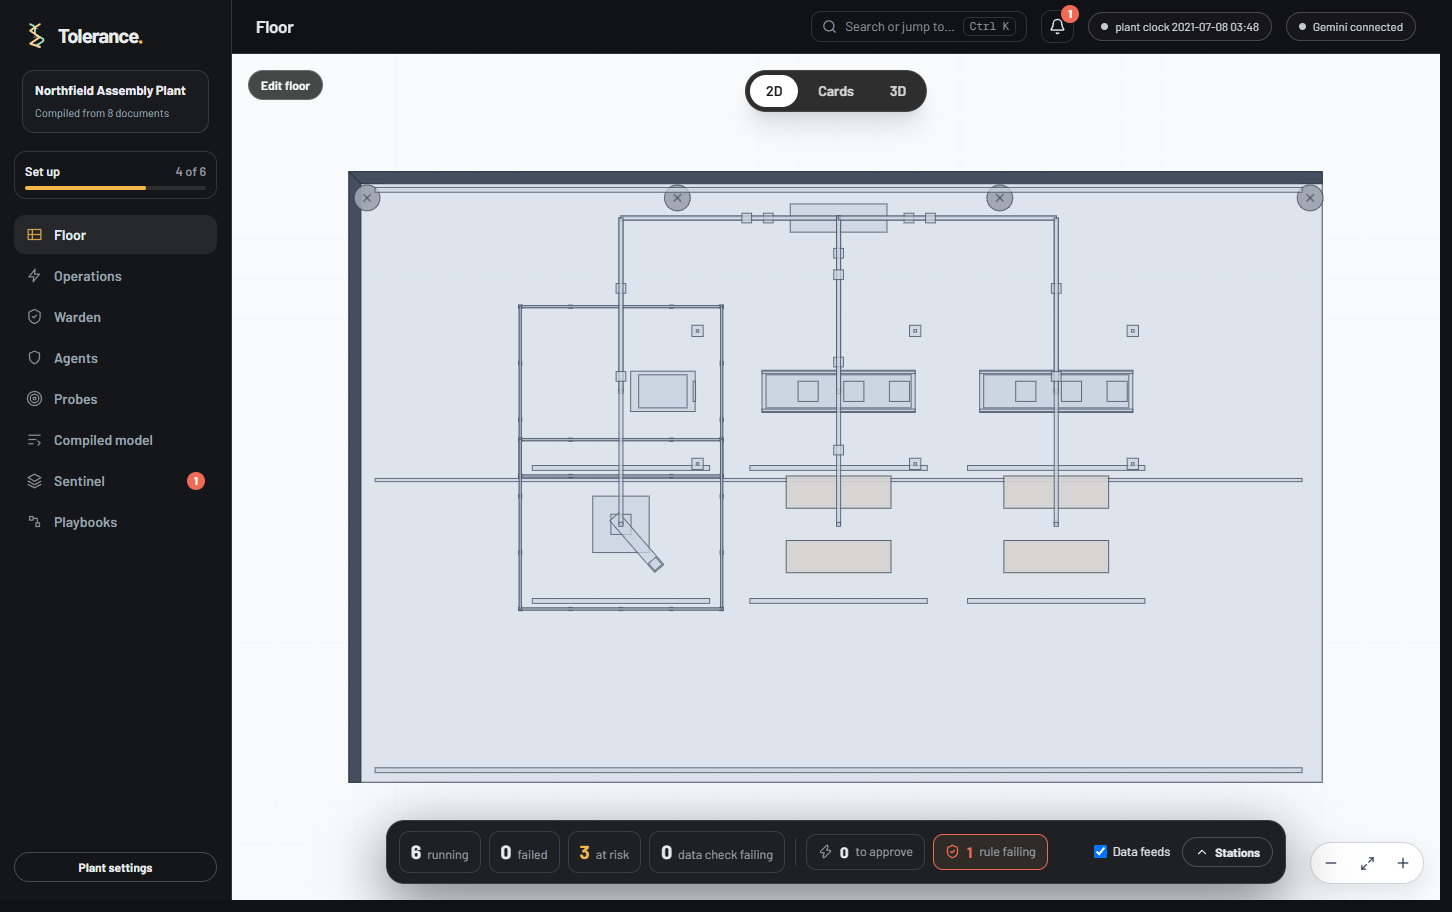
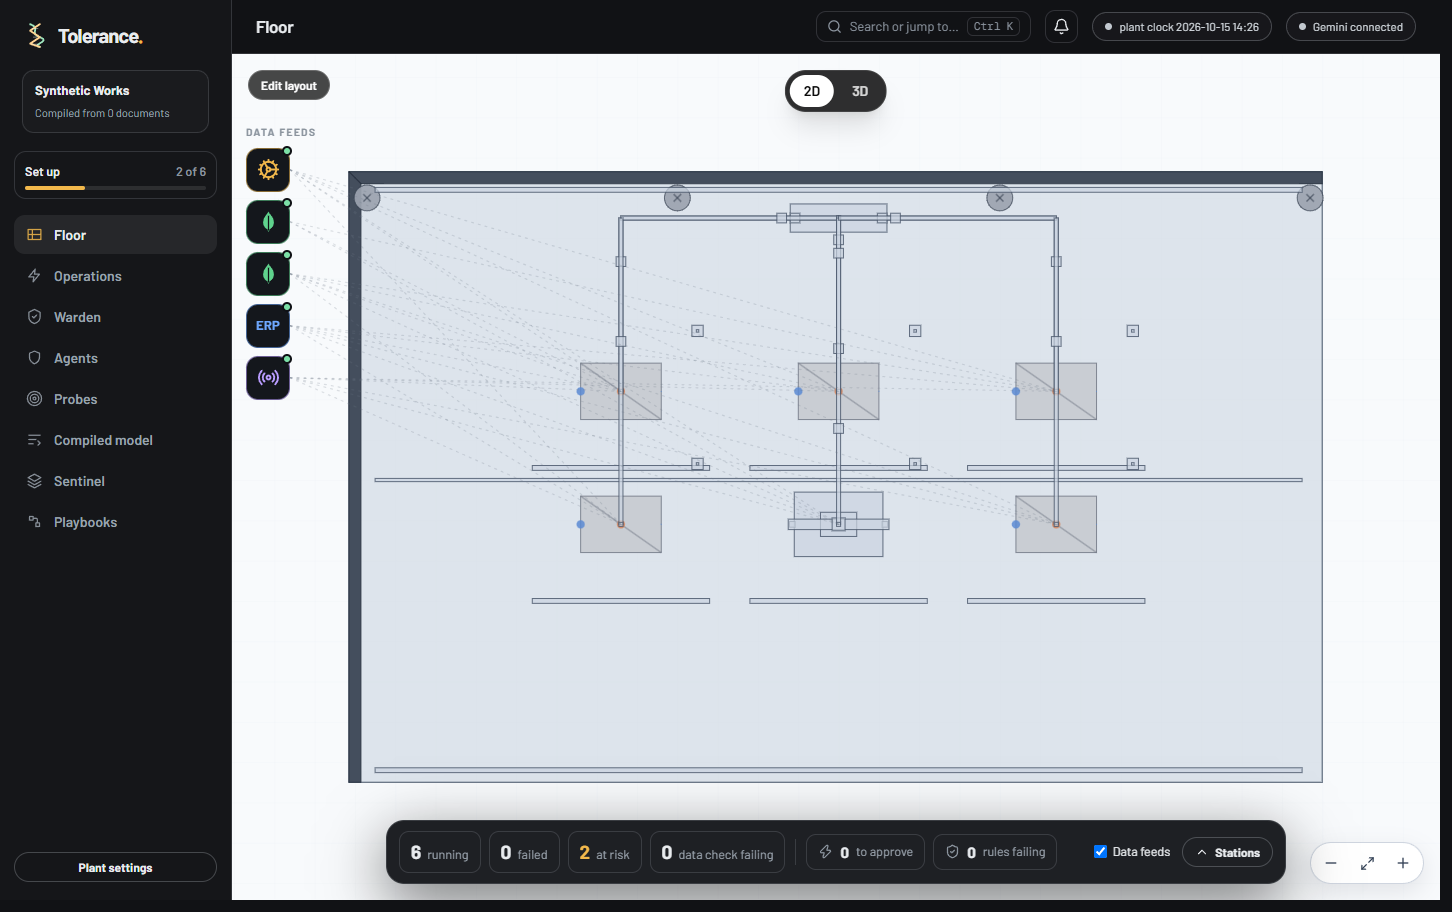
Landing hero: show the live floor under the headline, and a current screenshot

diff --git a/web/app/page.tsx b/web/app/page.tsx
@@ -13,7 +13,7 @@ const CSS = `
 .lp-nav nav{display:flex;gap:22px;margin-left:12px;font-size:14.5px;color:var(--mut)}
 .lp-nav nav a{text-decoration:none}.lp-nav nav a:hover{color:var(--ivory)}
 .lp-hero{background:radial-gradient(1000px 520px at 78% -10%,#23201a 0%,transparent 60%),radial-gradient(900px 500px at 10% 0%,#162320 0%,transparent 55%)}
-.lp-hero .lp-wrap{display:grid;grid-template-columns:minmax(0,1.15fr) minmax(0,.85fr);gap:56px;align-items:center;padding-top:72px;padding-bottom:72px}
+.lp-hero .lp-wrap{display:grid;grid-template-columns:minmax(0,1.15fr) minmax(0,.85fr);gap:56px;align-items:start;padding-top:56px;padding-bottom:64px}
 .lp-eyebrow{font-size:12px;letter-spacing:.16em;text-transform:uppercase;color:var(--amber);font-weight:700}
 .lp h1{font-size:clamp(38px,5vw,60px);line-height:1.04;letter-spacing:-.045em;font-weight:600;margin:14px 0 18px}
 .lp h2{font-size:clamp(28px,3.4vw,40px);line-height:1.1;letter-spacing:-.04em;font-weight:600;margin:0 0 14px}
@@ -88,6 +88,8 @@ export default function Landing() {
               <li><i>✓</i><span>A hard limit from your own documents is never crossed, whatever the score.</span></li>
               <li><i>✓</i><span>Plain rules check your systems. No model decides a result.</span></li>
             </ul>
+            <div className="lp-shot" style={{ marginTop: 30 }}><img src="/landing/floor-plan.png" alt="The live floor plan with data feeds and the status panel" /></div>
+            <p style={{ marginTop: 14 }}><a href="#how" style={{ color: 'var(--amber)', fontWeight: 600 }}>See how it works ↓</a></p>
           </div>
           <div className="lp-card"><AuthCard compact /></div>
         </div>
